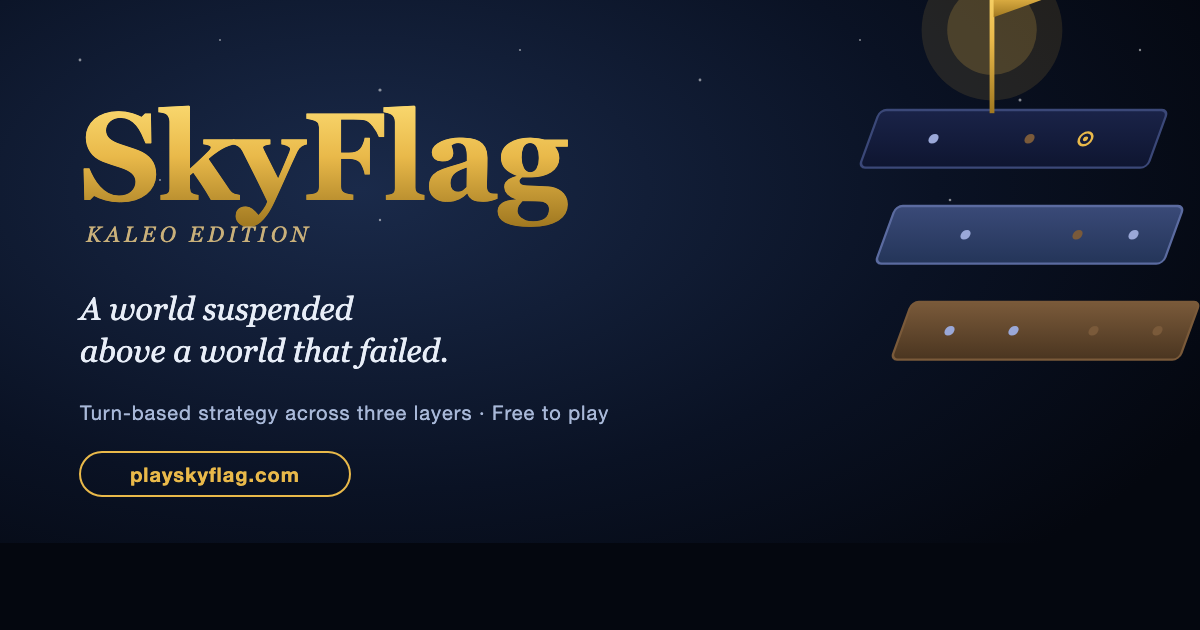
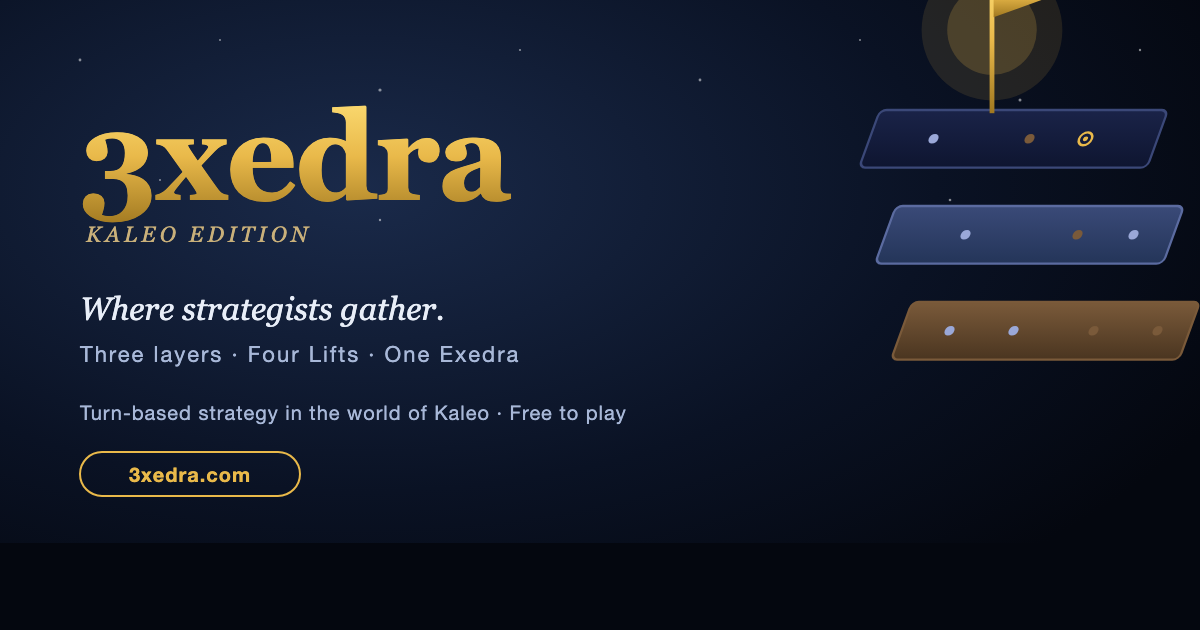
Phase A rebrand: SkyFlag → 3xedra (visible strings only)
Trademark forced rebrand. New name: 3xedra. New tagline: "Where
strategists gather. Three layers. Four Lifts. One Exedra."

Visible-only changes in this pass:
- index.html: title, description, OG, Twitter, Schema.org
- Landing.tsx: header logo, hero title + tagline, sections, footer,
  pricing card ("3xedra Plus"), demo alt
- App.tsx: logo alt, footer copyright, mailto subject
- AccountModal.tsx: welcome banner + Plus upsell strings
- Story.tsx: back link, eyebrow, footer mark (Kaleo lore untouched)
- Tutorial.tsx, Help.tsx, Lobby.tsx, Multiplayer.tsx, ErrorBoundary.tsx:
  stray UI strings
- capacitor.config.ts + ios Info.plist: appName / CFBundleDisplayName
  (bundle id stays com.limnology.skyflag — App Store immutable)
- notify-turn Edge Function: push notification fallback title
- og-image.png regenerated with 3xedra wordmark + new tagline

Phase B (domain swap) waits on 3xedra.com registration. Phase C
(internal renames: storage keys, asset filenames, repo, bundle id,
README/TODO comments) is non-urgent cleanup.

diff --git a/index.html b/index.html
@@ -16,28 +16,28 @@
 
     <!-- Primary SEO. Description trimmed to <160 chars so it shows
          in full in Google SERP without truncation. -->
-    <title>SkyFlag — A world suspended above a world that failed</title>
-    <meta name="description" content="Free turn-based strategy game across three layers — Terran, Meridian, Empyrean. Neutralize three claim-seals or claim the Caelum Nexus. Play now." />
-    <meta name="keywords" content="SkyFlag, Kaleo, strategy game, turn-based, board game, online, multiplayer, daily puzzle, chess-like, AI opponent, three-layer game, Grey Ravens, White Stags" />
+    <title>3xedra — Where strategists gather</title>
+    <meta name="description" content="Free turn-based strategy game across three layers — Terran, Meridian, Empyrean. Three layers. Four Lifts. One Exedra. Play now." />
+    <meta name="keywords" content="3xedra, Exedra, Kaleo, strategy game, turn-based, board game, online, multiplayer, daily puzzle, chess-like, AI opponent, three-layer game, Grey Ravens, White Stags" />
     <meta name="author" content="Limnology Research Corp." />
     <link rel="canonical" href="https://playskyflag.com/" />
 
     <!-- Open Graph (Facebook, LinkedIn, Discord, iMessage previews) -->
     <meta property="og:type" content="website" />
-    <meta property="og:site_name" content="SkyFlag" />
-    <meta property="og:title" content="SkyFlag — A world suspended above a world that failed" />
-    <meta property="og:description" content="A turn-based strategy game set in Kaleo. Three layers — Terran, Meridian, Empyrean. Neutralize the opposing clan's three claim-seals, or guide your Captain to the Caelum Nexus. Free to play." />
+    <meta property="og:site_name" content="3xedra" />
+    <meta property="og:title" content="3xedra — Where strategists gather" />
+    <meta property="og:description" content="A turn-based strategy game set in Kaleo. Three layers. Four Lifts. One Exedra. Neutralize the opposing clan's three claim-seals, or guide your Captain to the Caelum Nexus. Free to play." />
     <meta property="og:url" content="https://playskyflag.com/" />
     <meta property="og:image" content="https://playskyflag.com/og-image.png" />
     <meta property="og:image:width" content="1200" />
     <meta property="og:image:height" content="630" />
-    <meta property="og:image:alt" content="SkyFlag — strategy across the three layers of Kaleo" />
+    <meta property="og:image:alt" content="3xedra — strategy across the three layers of Kaleo" />
     <meta property="og:locale" content="en_US" />
 
     <!-- Twitter / X card -->
     <meta name="twitter:card" content="summary_large_image" />
-    <meta name="twitter:title" content="SkyFlag — A world suspended above a world that failed" />
-    <meta name="twitter:description" content="Turn-based strategy across three layers of Kaleo. Neutralize three claim-seals or guide your Captain to the Caelum Nexus." />
+    <meta name="twitter:title" content="3xedra — Where strategists gather" />
+    <meta name="twitter:description" content="Turn-based strategy across three layers of Kaleo. Three layers. Four Lifts. One Exedra." />
     <meta name="twitter:image" content="https://playskyflag.com/og-image.png" />
 
     <!-- Schema.org structured data — helps Google render a rich card.
@@ -50,8 +50,8 @@
     {
       "@context": "https://schema.org",
       "@type": "VideoGame",
-      "name": "SkyFlag",
-      "alternateName": "SkyFlag — Kaleo Edition",
+      "name": "3xedra",
+      "alternateName": "3xedra — Kaleo Edition",
       "description": "A turn-based strategy game set in Kaleo, the three-layer arcology. Neutralize the opposing clan's three claim-seals, or guide your Captain to the Caelum Nexus.",
       "url": "https://playskyflag.com/",
       "image": "https://playskyflag.com/og-image.png",

diff --git a/src/Landing.tsx b/src/Landing.tsx
@@ -114,13 +114,13 @@ function Header() {
   return (
     <header className="landing-header">
       <div className="landing-header-inner">
-        <a href="/" className="landing-logo" aria-label="SkyFlag — home">
+        <a href="/" className="landing-logo" aria-label="3xedra — home">
           <img
             src="/skyflag-logo.png"
             alt=""
             className="landing-logo-img"
           />
-          <span className="landing-logo-text">SkyFlag</span>
+          <span className="landing-logo-text">3xedra</span>
         </a>
         <nav className="landing-nav">
           <a href="#features" className="landing-nav-link">Features</a>
@@ -143,9 +143,9 @@ function Hero() {
           className="landing-hero-logo"
           aria-hidden="true"
         />
-        <h1 className="landing-hero-title">SkyFlag</h1>
+        <h1 className="landing-hero-title">3xedra</h1>
         <p className="landing-hero-subtitle">
-          A world suspended above a world that failed.
+          Where strategists gather. Three layers. Four Lifts. One Exedra.
         </p>
         <p className="landing-hero-pitch">
           A turn-based strategy game set in Kaleo, the three-layer arcology
@@ -174,7 +174,7 @@ function FeaturesSection() {
   return (
     <section id="features" className="landing-section">
       <div className="landing-section-inner">
-        <h2 className="landing-section-title">What makes SkyFlag different</h2>
+        <h2 className="landing-section-title">What makes 3xedra different</h2>
         <div className="landing-features-grid">
           <Feature
             icon="◇◆◇"
@@ -289,7 +289,7 @@ function PricingSection() {
           </div>
           <div className="landing-pricing-tier landing-pricing-featured">
             <div className="landing-tier-badge">Plus</div>
-            <div className="landing-tier-name">SkyFlag Plus</div>
+            <div className="landing-tier-name">3xedra Plus</div>
             <div className="landing-tier-price">
               <span className="landing-tier-price-num">$4.99</span>
               <span className="landing-tier-price-period">/ month</span>
@@ -384,7 +384,7 @@ function DemoAsset() {
       <img
         className="landing-demo-gif"
         src="/demo.gif"
-        alt="SkyFlag gameplay demo"
+        alt="3xedra gameplay demo"
         style={{ display: 'none' }}
         onError={(e) => {
           // No demo.gif either — hide entirely, leaving just the live
@@ -401,7 +401,7 @@ function Footer() {
     <footer className="landing-footer">
       <div className="landing-footer-inner">
         <div className="landing-footer-brand">
-          <strong>SkyFlag</strong>
+          <strong>3xedra</strong>
           <p>By Limnology Research Corp.</p>
         </div>
         <div className="landing-footer-links">

diff --git a/scripts/og-image.html b/scripts/og-image.html
@@ -58,7 +58,7 @@
           font-size="124"
           font-weight="700"
           fill="url(#goldFlag)"
-          letter-spacing="-2">SkyFlag</text>
+          letter-spacing="-2">3xedra</text>
 
     <text x="6" y="42"
           font-family="Georgia, 'Times New Roman', serif"
@@ -71,28 +71,28 @@
           font-family="Georgia, 'Times New Roman', serif"
           font-size="32"
           fill="#e8eef8"
-          font-style="italic">A world suspended</text>
+          font-style="italic">Where strategists gather.</text>
     <text x="0" y="162"
-          font-family="Georgia, 'Times New Roman', serif"
-          font-size="32"
-          fill="#e8eef8"
-          font-style="italic">above a world that failed.</text>
+          font-family="-apple-system, 'Helvetica Neue', sans-serif"
+          font-size="22"
+          fill="#a8b8d8"
+          letter-spacing="2">Three layers  ·  Four Lifts  ·  One Exedra</text>
 
     <text x="0" y="220"
           font-family="-apple-system, 'Helvetica Neue', sans-serif"
           font-size="20"
           fill="#a8b8d8"
-          letter-spacing="1">Turn-based strategy across three layers  ·  Free to play</text>
+          letter-spacing="1">Turn-based strategy in the world of Kaleo  ·  Free to play</text>
 
-    <rect x="0" y="252" width="270" height="44" rx="22"
+    <rect x="0" y="252" width="220" height="44" rx="22"
           fill="none" stroke="#e9b94a" stroke-width="2"/>
-    <text x="135" y="282"
+    <text x="110" y="282"
           font-family="-apple-system, 'Helvetica Neue', sans-serif"
           font-size="20"
           font-weight="600"
           fill="#e9b94a"
           text-anchor="middle"
-          letter-spacing="1">playskyflag.com</text>
+          letter-spacing="1">3xedra.com</text>
   </g>
 
   <g transform="translate(880, 110) scale(1.6)">

diff --git a/src/Story.tsx b/src/Story.tsx
@@ -46,7 +46,7 @@ function StoryHeader() {
   return (
     <header className="story-header">
       <div className="story-header-inner">
-        <a href="/" className="story-back">← SkyFlag</a>
+        <a href="/" className="story-back">← 3xedra</a>
         <div className="story-header-meta">Volume One · Kaleo Edition</div>
         <a href="/play" className="story-cta-button">Play</a>
       </div>
@@ -58,7 +58,7 @@ function StoryFooter() {
   return (
     <footer className="story-footer">
       <div className="story-footer-inner">
-        <p className="story-footer-mark">SkyFlag — The Three Seals of Kaleo</p>
+        <p className="story-footer-mark">3xedra — The Three Seals of Kaleo</p>
         <p className="story-footer-meta">
           Storybook v3 · Kaleo Edition · © {new Date().getFullYear()} Limnology Research Corp.
         </p>
@@ -78,7 +78,7 @@ function Cover() {
       <div className="story-cover-glyph" aria-hidden="true">
         <ThreeLayersGlyph />
       </div>
-      <p className="story-cover-eyebrow">SkyFlag · Volume One</p>
+      <p className="story-cover-eyebrow">3xedra · Volume One</p>
       <h1 className="story-cover-title">The Three Seals<br />of Kaleo</h1>
       <p className="story-cover-subtitle">A story of the First Reclamation</p>
       <div className="story-cover-divider" aria-hidden="true">· · ·</div>

diff --git a/src/AccountModal.tsx b/src/AccountModal.tsx
@@ -84,7 +84,7 @@ export default function AccountModal({ user, open, onClose, onProfileChange }: P
       <div className="account-overlay" role="dialog" aria-modal="true">
         <div className="account-card">
           <div className="account-header">
-            <h2 className="account-title">Welcome to SkyFlag</h2>
+            <h2 className="account-title">Welcome to 3xedra</h2>
             <button type="button" className="account-close" onClick={onClose} aria-label="Close">×</button>
           </div>
           <p className="account-intro">
@@ -388,15 +388,15 @@ function PlusPanel() {
   if (hasPlus) {
     return (
       <div className="account-plus-panel account-plus-active">
-        <strong>★ SkyFlag Plus active</strong>
-        <p>Thanks for supporting SkyFlag. All Plus features unlocked.</p>
+        <strong>★ 3xedra Plus active</strong>
+        <p>Thanks for supporting 3xedra. All Plus features unlocked.</p>
       </div>
     );
   }
 
   return (
     <div className="account-plus-panel">
-      <strong className="account-plus-title">SkyFlag Plus</strong>
+      <strong className="account-plus-title">3xedra Plus</strong>
       <p className="account-plus-body">
         Unlock advanced AI difficulty, puzzle archive with analysis,
         custom themes, ad-free play, and unlimited tournaments.

diff --git a/src/App.tsx b/src/App.tsx
@@ -973,7 +973,7 @@ export default function App() {
       <header className="app-header">
         <img
           src="/skyflag-logo.png"
-          alt="SkyFlag"
+          alt="3xedra"
           className="app-logo"
           width={120}
           height={120}
@@ -1352,10 +1352,10 @@ export default function App() {
       />
       <StatsModal open={statsOpen} onClose={() => setStatsOpen(false)} />
       <footer className="app-footer">
-        <p>© 2026 Limnology Research Corp. · SkyFlag™ Kaleo Edition.</p>
+        <p>© 2026 Limnology Research Corp. · 3xedra™ Kaleo Edition.</p>
         <p>
           Test feedback:{' '}
-          <a href="mailto:njatel@limnology.ca?subject=SkyFlag%20Test%20Feedback">
+          <a href="mailto:njatel@limnology.ca?subject=3xedra%20Test%20Feedback">
             njatel@limnology.ca
           </a>
         </p>

diff --git a/capacitor.config.ts b/capacitor.config.ts
@@ -1,8 +1,13 @@
 import type { CapacitorConfig } from '@capacitor/cli';
 
+// NOTE: appId stays as `com.limnology.skyflag` for now. App Store Connect
+// treats the bundle id as immutable once an app is in review/distribution,
+// so renaming it requires creating a new App Store record. Visible name
+// (appName / CFBundleDisplayName in iOS) flips to 3xedra; the bundle id
+// rename is Phase C with full App Store coordination.
 const config: CapacitorConfig = {
   appId: 'com.limnology.skyflag',
-  appName: 'SkyFlag',
+  appName: '3xedra',
   webDir: 'dist'
 };
 

diff --git a/src/Lobby.tsx b/src/Lobby.tsx
@@ -335,7 +335,7 @@ export default function Lobby({ user, profile, inRoom, onEnterRoom, onPresenceCh
           <div className="account-card">
             <h2 className="account-title">Challenge from {incoming.from_nickname}</h2>
             <p className="account-intro">
-              {incoming.from_nickname} invited you to play SkyFlag. Room{' '}
+              {incoming.from_nickname} invited you to play 3xedra. Room{' '}
               <strong className="mp-code">{incoming.room_code}</strong>.
             </p>
             <div className="account-actions">

diff --git a/src/ErrorBoundary.tsx b/src/ErrorBoundary.tsx
@@ -39,7 +39,7 @@ export default class ErrorBoundary extends Component<Props, State> {
         <div className="error-boundary-card">
           <h2 className="error-boundary-title">Something broke.</h2>
           <p className="error-boundary-msg">
-            SkyFlag hit an unexpected error. Your local game is saved — a
+            3xedra hit an unexpected error. Your local game is saved — a
             reload usually clears it.
           </p>
           <pre className="error-boundary-trace">{this.state.error.message}</pre>

diff --git a/supabase/functions/notify-turn/index.ts b/supabase/functions/notify-turn/index.ts
@@ -133,7 +133,7 @@ Deno.serve(async (req: Request) => {
   if (subErr) return json({ ok: false, error: subErr.message }, 500);
   if (!subs || subs.length === 0) return json({ ok: true, reason: 'no-subscriptions' });
 
-  const title = from_nickname ? `${from_nickname} is waiting` : 'SkyFlag — your turn';
+  const title = from_nickname ? `${from_nickname} is waiting` : '3xedra — your turn';
   const bodyText = `Tap to play. Room ${room_code}.`;
 
   const results: Array<{ platform: string; ok: boolean; error?: string }> = [];

diff --git a/src/Help.tsx b/src/Help.tsx
@@ -69,11 +69,11 @@ export default function Help({ inline = false }: Props) {
           Want the full story and complete rules?{' '}
           <a
             href="/skyflag-rulebook.pdf"
-            download="SkyFlag-Rulebook.pdf"
+            download="3xedra-Rulebook.pdf"
             target="_blank"
             rel="noopener noreferrer"
           >
-            Download the SkyFlag rulebook (PDF)
+            Download the 3xedra rulebook (PDF)
           </a>
           .
         </p>

diff --git a/src/Multiplayer.tsx b/src/Multiplayer.tsx
@@ -200,7 +200,7 @@ function NotificationsControl() {
             if (!result.ok) {
               setMessage(
                 result.reason === 'denied'
-                  ? 'Permission denied. Enable Notifications for SkyFlag in iOS Settings.'
+                  ? 'Permission denied. Enable Notifications for 3xedra in iOS Settings.'
                   : `Couldn't enable: ${result.message ?? result.reason}`,
               );
               return;
